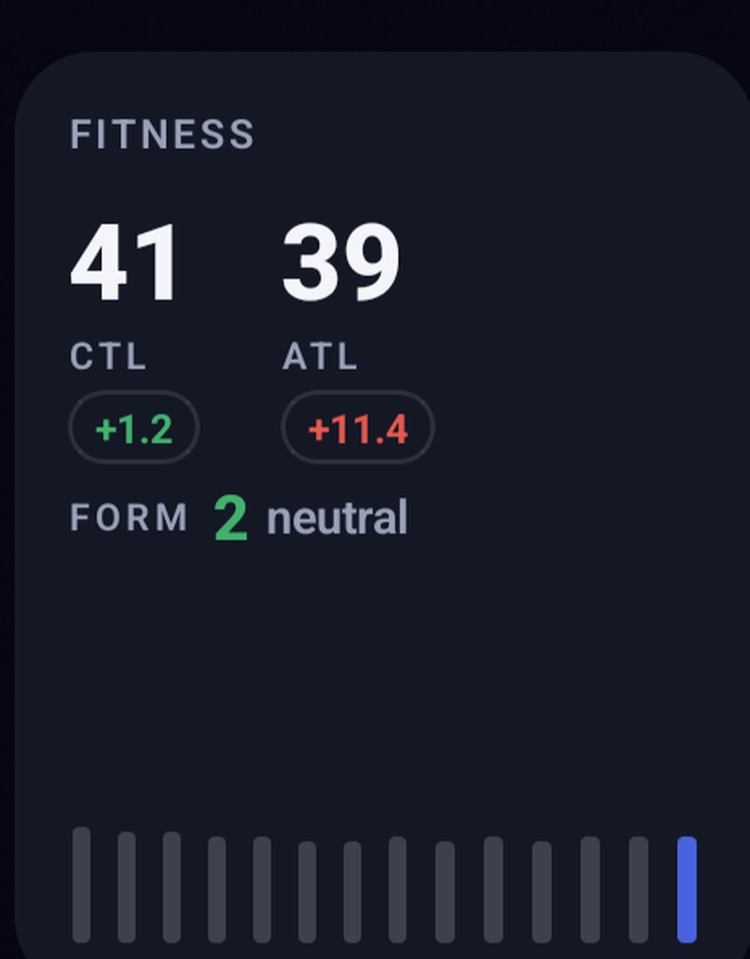
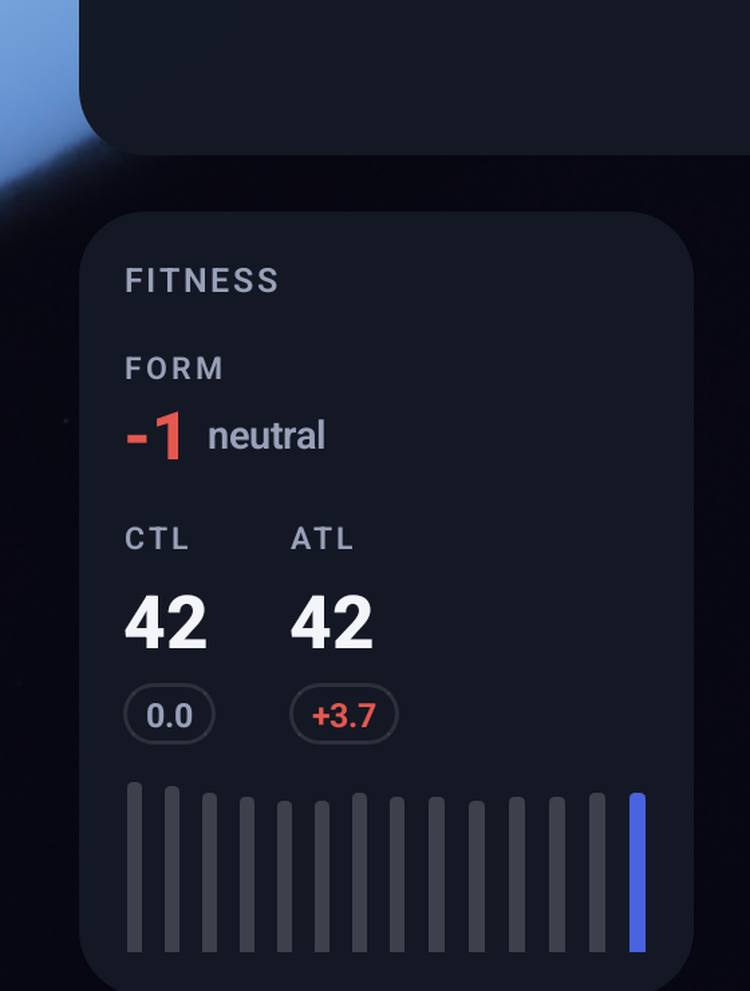
feat: widget polish — spacing rhythm fix (round 24)
Owner review: 'minimal padding between the elements' confirmed with
pixel measurements (row gap 8.4dp, edge padding 10.7dp, name→metric ~2dp).

- UpcomingRuns: PAD 10→12, row gap 8→12, row stride 40→48.4dp, chip 34dp
  radius 9, name 17dp line, metric spacing 3dp
- Fitness: Metric/TileStack gaps up (7/10), 2x2 tile margins 8/12,
  sparkline chrome re-accounted (no overflow), delta chips 4dp
- NextRace: pad 14, name/date spacing up
- common: DeltaChip spacing 4dp
- docs/screenshots: widget captures re-framed with home-screen context
  (README documents the generous-framing convention)
- verified: all seams ≥10dp on emulator (was ≤8.4dp); layout logic and
  data flow untouched

diff --git a/apps/expo/src/widgets/FitnessWidget.tsx b/apps/expo/src/widgets/FitnessWidget.tsx
@@ -1,6 +1,9 @@
 /**
- * FitnessWidget (round 19): a deliberate two-anatomy composition per owner
- * review — no more floating sparkline/dead space.
+ * FitnessWidget (round 19 anatomy, round 24 spacing): a deliberate
+ * two-anatomy composition per owner review — no more floating sparkline/dead
+ * space. Round 24 opened up the tile rhythm (+2-4dp margins inside Metric,
+ * bigger gaps between FORM/CTL/ATL blocks and the sparkline) after the
+ * owner's "minimal padding" complaint.
  *
  * Both variants use the app's StatTile anatomy (small-caps label + big value
  * + 7-day delta chip) and the today bar of the 14-day CTL sparkline in
@@ -45,7 +48,7 @@ function Metric({
       <WidgetLabel text={label} size={8.5} />
       <TextWidget
         text={String(Math.round(value))}
-        style={{ fontSize: valueSize, fontWeight: '800', color: t.text, lineHeight: Math.round(valueSize * 1.2), marginTop: 1 }}
+        style={{ fontSize: valueSize, fontWeight: '800', color: t.text, lineHeight: Math.round(valueSize * 1.2), marginTop: 3 }}
       />
       <DeltaChip value={delta} goodUp={goodUp} />
     </FlexWidget>
@@ -103,9 +106,9 @@ function TileStack({ fitness, compact }: { fitness: WidgetFitness; compact: bool
   return (
     <FlexWidget style={{ flexDirection: 'column', width: 'match_parent' }}>
       <FormTile fitness={fitness} valueSize={compact ? 14 : 18} />
-      <FlexWidget style={{ flexDirection: 'row', marginTop: compact ? 5 : 8 }}>
+      <FlexWidget style={{ flexDirection: 'row', marginTop: compact ? 7 : 10 }}>
         <Metric label="CTL" value={fitness.ctl} delta={fitness.ctlDelta7} goodUp valueSize={value} />
-        <FlexWidget style={{ width: compact ? 12 : 16 }} />
+        <FlexWidget style={{ width: compact ? 14 : 20 }} />
         <Metric label="ATL" value={fitness.atl} delta={fitness.atlDelta7} goodUp={false} valueSize={value} />
       </FlexWidget>
     </FlexWidget>
@@ -131,12 +134,13 @@ export function FitnessWidget({
   const compact = height < 140;
   const pad = compact ? 10 : 12;
   // sparkline takes what the chrome + tiles leave: paddings + label + gaps +
-  // a measured upper bound of the hugging tile stack (form ~34, tiles ~52)
-  const barsH = compact ? clamp(14, 44, height - 118) : clamp(18, 72, height - 152);
+  // a measured upper bound of the hugging tile stack (form ~36, tiles ~58 —
+  // round-24 spacing: +3dp margins in Metric, +4dp DeltaChip, +2dp block gap)
+  const barsH = compact ? clamp(14, 44, height - 122) : clamp(18, 72, height - 160);
   return (
     <WidgetCard width={width} height={height} padding={pad}>
       {compact ? null : <WidgetLabel text="Fitness" size={9} />}
-      <FlexWidget style={{ flexDirection: 'row', marginTop: compact ? 6 : 10, marginBottom: compact ? 6 : 8 }}>
+      <FlexWidget style={{ flexDirection: 'row', marginTop: compact ? 8 : 12, marginBottom: compact ? 8 : 10 }}>
         <TileStack fitness={f} compact={compact} />
       </FlexWidget>
       <FlexWidget style={{ flex: 1 }} />
@@ -163,26 +167,27 @@ export function FitnessWideWidget({
   const leftW = 116;
   const compact = height < 170;
   // right column: sparkline fills everything above the pinned updated line
-  const barsH = Math.max(20, height - 2 * pad - 16);
+  // (8dp margin + 11dp line = the 19dp the pinned text block occupies)
+  const barsH = Math.max(20, height - 2 * pad - 19);
   return (
     <WidgetCard width={width} height={height} padding={pad}>
       <FlexWidget style={{ flex: 1, flexDirection: 'row', width: 'match_parent' }}>
         <FlexWidget style={{ width: leftW, flexDirection: 'column', alignItems: 'flex-start' }}>
           <WidgetLabel text="Fitness" size={9} />
-          <FlexWidget style={{ flexDirection: 'column', marginTop: compact ? 4 : 6, marginBottom: compact ? 4 : 6 }}>
+          <FlexWidget style={{ flexDirection: 'column', marginTop: compact ? 6 : 10, marginBottom: compact ? 6 : 10 }}>
             <FormTile fitness={f} valueSize={compact ? 16 : 20} />
           </FlexWidget>
-          <FlexWidget style={{ flexDirection: 'column', marginBottom: compact ? 4 : 8 }}>
+          <FlexWidget style={{ flexDirection: 'column', marginBottom: compact ? 6 : 10 }}>
             <Metric label="CTL" value={f.ctl} delta={f.ctlDelta7} goodUp valueSize={compact ? 17 : 20} />
           </FlexWidget>
           <Metric label="ATL" value={f.atl} delta={f.atlDelta7} goodUp={false} valueSize={compact ? 17 : 20} />
         </FlexWidget>
-        <Hairline marginH={12} />
+        <Hairline marginH={14} />
         <FlexWidget style={{ flex: 1, flexDirection: 'column', justifyContent: 'flex-end' }}>
           <CtlBars series={f.series} height={barsH} />
           <TextWidget
             text={snapshotAgeLabel(snapshot.writtenAt)}
-            style={{ fontSize: 8.5, color: t.muted, marginTop: 5, lineHeight: 11 }}
+            style={{ fontSize: 8.5, color: t.muted, marginTop: 8, lineHeight: 11 }}
             maxLines={1}
           />
         </FlexWidget>

diff --git a/apps/expo/src/widgets/UpcomingRunsWidget.tsx b/apps/expo/src/widgets/UpcomingRunsWidget.tsx
@@ -1,9 +1,9 @@
 /**
- * UpcomingRunsWidget (round 19) — Google-Calendar-condensed, re-spaced per
- * owner review: one row per run over [today−2d, +14d], each with a left date
- * chip (DOW + day number) and run name + metric line on a shared center line.
- * Row stride is 40dp (32 content + 8 gap) so rows breathe; the 32×32 chip
- * matches the two-line text block exactly (16 + 2 + 14), keeping chip and
+ * UpcomingRunsWidget (round 24) — Google-Calendar-condensed, re-spaced again
+ * after the owner's "minimal padding" complaint: rows went from a 40dp
+ * stride (32 + 8 gap) to 46dp (34 content + 12 gap), card edge padding from
+ * 10dp to 12dp, and the header got its own 10dp separation. The 34×34 chip
+ * matches the two-line text block exactly (17 + 3 + 14), keeping chip and
  * text baselines aligned.
  *
  * Status reads at a glance: DONE = ✓ + success-tinted chip with actual
@@ -18,13 +18,13 @@ import { snapshotAgeLabel, type WidgetSnapshot, type WidgetUpcomingEntry } from 
 import { WidgetCard, WidgetLabel, WidgetNoData, type WidgetProps } from './common';
 import { widgetTheme as t } from './widget-theme';
 
-const PAD = 10;
-const HEADER_H = 15;
-const HEADER_GAP = 6;
-const ROW_H = 32;
-const ROW_GAP = 8;
+const PAD = 12;
+const HEADER_H = 16;
+const HEADER_GAP = 10;
+const ROW_H = 34;
+const ROW_GAP = 12;
 const ROW_STRIDE = ROW_H + ROW_GAP;
-const CHIP_W = 32;
+const CHIP_W = 34;
 
 /** Left date chip: mono-feel DOW over the day number; today = accent fill,
  *  done = success-tinted, planned/missed keep the glass fill. */
@@ -32,19 +32,19 @@ function DateChip({ row }: { row: WidgetUpcomingEntry }) {
   const bg = row.isToday ? t.accent : row.done ? t.successSoft : t.borderGlass;
   const fg = row.isToday ? t.onAccent : row.done ? t.success : t.muted;
   return (
-    <FlexWidget
+      <FlexWidget
       style={{
         width: CHIP_W,
         height: CHIP_W,
-        borderRadius: 8,
+        borderRadius: 9,
         backgroundColor: bg,
         flexDirection: 'column',
         alignItems: 'center',
         justifyContent: 'center',
       }}
     >
-      <TextWidget text={row.dow.toUpperCase()} style={{ fontSize: 7.5, fontWeight: '700', color: fg, letterSpacing: 0.6 }} />
-      <TextWidget text={String(row.day)} style={{ fontSize: 13, fontWeight: '700', color: fg, marginTop: -1 }} />
+      <TextWidget text={row.dow.toUpperCase()} style={{ fontSize: 8, fontWeight: '700', color: fg, letterSpacing: 0.6 }} />
+      <TextWidget text={String(row.day)} style={{ fontSize: 13.5, fontWeight: '700', color: fg, marginTop: -1 }} />
     </FlexWidget>
   );
 }
@@ -56,12 +56,12 @@ function RunRow({ row }: { row: WidgetUpcomingEntry }) {
       style={{ flexDirection: 'row', alignItems: 'center', height: ROW_H, width: 'match_parent', marginBottom: ROW_GAP }}
     >
       <DateChip row={row} />
-      <FlexWidget style={{ flex: 1, flexDirection: 'column', justifyContent: 'center', marginLeft: 10 }}>
-        <FlexWidget style={{ flexDirection: 'row', alignItems: 'center', height: 16 }}>
+      <FlexWidget style={{ flex: 1, flexDirection: 'column', justifyContent: 'center', marginLeft: 12 }}>
+        <FlexWidget style={{ flexDirection: 'row', alignItems: 'center', height: 17 }}>
           {row.done ? (
-            <TextWidget text="✓" style={{ fontSize: 11, fontWeight: '700', color: t.success, marginRight: 5 }} />
+            <TextWidget text="✓" style={{ fontSize: 11, fontWeight: '700', color: t.success, marginRight: 6 }} />
           ) : row.missed ? (
-            <TextWidget text="–" style={{ fontSize: 11, fontWeight: '700', color: t.muted, marginRight: 5 }} />
+            <TextWidget text="–" style={{ fontSize: 11, fontWeight: '700', color: t.muted, marginRight: 6 }} />
           ) : (
             <FlexWidget
               style={{
@@ -70,20 +70,20 @@ function RunRow({ row }: { row: WidgetUpcomingEntry }) {
                 borderRadius: 4,
                 borderWidth: 1.5,
                 borderColor: row.isRace ? t.race : t.muted,
-                marginRight: 5,
+                marginRight: 6,
               }}
             />
           )}
           <TextWidget
             text={row.name}
-            style={{ fontSize: 12, fontWeight: '700', color: nameColor, lineHeight: 16 }}
+            style={{ fontSize: 12.5, fontWeight: '700', color: nameColor, lineHeight: 17 }}
             maxLines={1}
             truncate="END"
           />
         </FlexWidget>
         <TextWidget
           text={row.metric}
-          style={{ fontSize: 10.5, color: t.muted, lineHeight: 14, marginTop: 2 }}
+          style={{ fontSize: 10.5, color: t.muted, lineHeight: 14, marginTop: 3 }}
           maxLines={1}
           truncate="END"
         />

diff --git a/apps/expo/src/widgets/NextRaceWidget.tsx b/apps/expo/src/widgets/NextRaceWidget.tsx
@@ -47,11 +47,11 @@ export function NextRaceWidget({
   const todayOrTomorrow = race.daysUntil <= 1;
   const countdownSize = countdown.length > 6 ? 22 : 26;
   return (
-    <WidgetCard width={width} height={height} padding={13}>
+    <WidgetCard width={width} height={height} padding={14}>
       <WidgetLabel text="Next race" size={9} />
       <TextWidget
         text={race.name}
-        style={{ fontSize: 15, fontWeight: '700', color: t.text, marginTop: 5, lineHeight: 19 }}
+        style={{ fontSize: 15, fontWeight: '700', color: t.text, marginTop: 7, lineHeight: 19 }}
         maxLines={2}
         truncate="END"
       />
@@ -69,7 +69,7 @@ export function NextRaceWidget({
       />
       <TextWidget
         text={raceDateLine(race.date, race.time)}
-        style={{ fontSize: 10.5, fontWeight: '600', color: t.muted, letterSpacing: 0.8, marginTop: 3 }}
+        style={{ fontSize: 10.5, fontWeight: '600', color: t.muted, letterSpacing: 0.8, marginTop: 5 }}
         maxLines={1}
         truncate="END"
       />
@@ -90,18 +90,18 @@ export function NextRaceWideWidget({
   const countdown = raceCountdownLabel(race.daysUntil);
   const todayOrTomorrow = race.daysUntil <= 1;
   return (
-    <WidgetCard width={width} height={height} padding={10}>
+    <WidgetCard width={width} height={height} padding={12}>
       <FlexWidget style={{ flex: 1, flexDirection: 'row', alignItems: 'center' }}>
         <FlexWidget style={{ flex: 1, flexDirection: 'column', justifyContent: 'center' }}>
           <WidgetLabel text="Next race" size={8} />
           <TextWidget
             text={race.name}
-            style={{ fontSize: 14, fontWeight: '700', color: t.text, marginTop: 2 }}
+            style={{ fontSize: 14, fontWeight: '700', color: t.text, marginTop: 3 }}
             maxLines={1}
             truncate="END"
           />
         </FlexWidget>
-        <FlexWidget style={{ flexDirection: 'column', alignItems: 'flex-end', marginLeft: 8 }}>
+        <FlexWidget style={{ flexDirection: 'column', alignItems: 'flex-end', marginLeft: 10 }}>
           <TextWidget
             text={countdown}
             style={{
@@ -115,7 +115,7 @@ export function NextRaceWideWidget({
           />
           <TextWidget
             text={raceDateLine(race.date, race.time)}
-            style={{ fontSize: 9.5, fontWeight: '600', color: t.muted, letterSpacing: 0.7, marginTop: 1 }}
+            style={{ fontSize: 9.5, fontWeight: '600', color: t.muted, letterSpacing: 0.7, marginTop: 2 }}
             maxLines={1}
             truncate="END"
           />

diff --git a/apps/expo/src/widgets/common.tsx b/apps/expo/src/widgets/common.tsx
@@ -90,7 +90,7 @@ export function DeltaChip({ value, goodUp }: { value: number | null; goodUp: boo
         borderRadius: 999,
         paddingHorizontal: 5,
         paddingVertical: 1,
-        marginTop: 2,
+        marginTop: 4,
       }}
     >
       <TextWidget text={label} style={{ fontSize: 9, fontWeight: '700', color }} />

diff --git a/docs/screenshots/README.md b/docs/screenshots/README.md
@@ -15,6 +15,13 @@ Extensions: `.png` for small/flat captures kept lossless, `.jpg` for larger
 ones re-encoded (JPEG q60–80) to keep this folder under ~2 MB. All images are
 compressed for docs embedding — **do not use them as source assets**.
 
+Widget captures (`widget-*`): keep the home-screen context — capture the full
+phone frame (or crop loosely) so wallpaper is visible around the widget card,
+the way the widget actually looks on a launcher. Tight edge-to-edge widget
+crops read as "cropped too aggressively" (owner feedback, round 24); target
+roughly one phone screen with the widget in frame, `sips`-resampled to ~750 px
+wide.
+
 Fresh captures come from the QA screenshot registry: run
 `node tools/shot_registry.mjs` (personas × surfaces →
 `qa-screenshots/registry/<date>/<persona>/`); the curated copies here were
